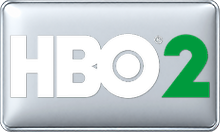
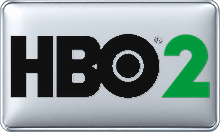
Fix HBO 2 white variant contrast

Changed region(s): [[0.0273, 0.2424, 0.7364, 0.7576], [0.7091, 0.303, 0.7364, 0.3333]]

diff --git a/reports/black-white-qc-2026-10-09/batch-001/checkpoint.md b/reports/black-white-qc-2026-10-09/batch-001/checkpoint.md
@@ -1,0 +1,11 @@
+# BLACK/WHITE QC batch 001
+
+- Baseline production HEAD: `f936138f49fd37c845939d1222d9589951bcae79`
+- Scope: one confirmed white-on-white wordmark, `0.8w/digi-hu/1_0_1_A46_5_1_E080000_0_0_0.png`.
+- BLACK inspected and retained byte-for-byte.
+- WHITE repaired only within an achromatic bright-pixel mask derived from the fitted transparent source.
+- Green `2` remained pixel-exact; transparent source and both immutable MASTERs unchanged.
+- Visual result: PASS; 220×132 RGBA PNG decodes successfully.
+- Last processed identity: `0.8w/digi-hu/1_0_1_A46_5_1_E080000_0_0_0`
+- Next identity: full-catalog review resumes at the first unprocessed item; audit manifest contains every completed item.
+- Repaired PNG count: 1; reviewed variants in this batch: BLACK 1, WHITE 1.
